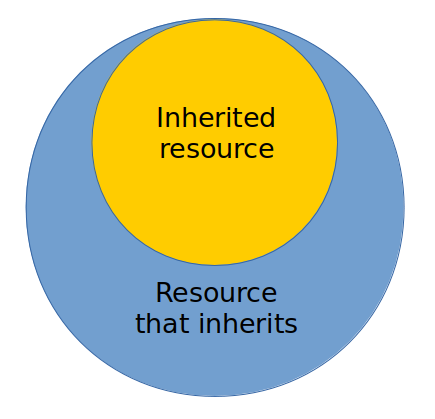
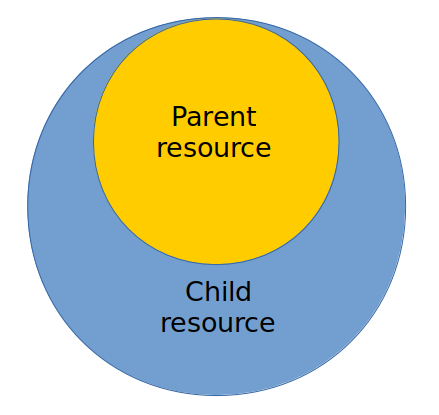
Start Reflectors

diff --git a/doc/version2.eng/concept/Structure.md b/doc/version2.eng/concept/Structure.md
@@ -2,11 +2,11 @@
 
 ### Section <code>will-file</code>   
 
-Higher structural element of <code>will-file</code> which consists of resources of single type or fields, which describe the module.
+Higher structural element of <code>will-file</code> which consists of resources of single type or fields, which describe the module.  
 
-There are 6 optional sections for building the module: `about`, `path`, `submodule`, `step`, `reflector`, `build` and one section generated by the `willbe` utility when exporting the module. It is section `exported`.
+There are 6 optional sections for building the module: `about`, `path`, `submodule`, `step`, `reflector`, `build` and one section generated by the `willbe` utility when exporting the module. It is section `exported`.  
 
-The complete `will-file` structure with sections:
+The complete `will-file` structure with sections:  
 
 ```
 will-file
@@ -20,7 +20,7 @@ will-file
 
 ```
 
-The order and the number of sections in `will-file` is determined by its purpose. For example, the following structure is possible: 
+The order and the number of sections in `will-file` is determined by its purpose. For example, the following structure is possible:   
 
 ```
 will-file
@@ -31,7 +31,7 @@ will-file
 
 ```
 
-### Assigning of the `will-file` sections
+### Assigning of the `will-file` sections  
 
 <details>
   <summary><a href="./concept/SectionAbout.md">Section <code>about</code></a></summary>
@@ -75,8 +75,8 @@ The resources appearance of individual sections is different. In the figure the 
 
 ![resource.png](./Images/resource.png)  
 
-### Type of resource
+### Type of resource  
 
 Functionality associated with group of resources restricted by its purpose. Examples of types of resources: path, submodule, step, build. Each type of resources has its own purpose and is treated by the utility differently.  
 
-The `path` section has a `path` type of resources. The `path` resource points to the file (directory) path and it is used in routing for other resources. The `step` section has the resources of the "function of [module](Module.mdModule) construction" type (short name is "step") - the resource specifies the procedure for construction and the conditions for its implementation. Section `reflector` has a "reflector" type resource. Reflector specifies execution of operations with files. The `submodule` section connects the "submodule" type resources. The submodule is the auxiliary parts of the module, it's the individual modules. The` build `section places the resources of the "build assembly" type (short name is "build"). Build specifies module construction scenario and the sequence of its execution. The` exported` section includes descriptive fields and links to the resources of other sections. Section `about` does not have resources but it contains descriptive information about the module.
+The `path` section has a `path` type of resources. The `path` resource points to the file (directory) path and it is used in routing for other resources. The `step` section has the resources of the "function of [module](Module.mdModule) construction" type (short name is "step") - the resource specifies the procedure for construction and the conditions for its implementation. Section `reflector` has a "reflector" type resource. Reflector specifies execution of operations with files. The `submodule` section connects the "submodule" type resources. The submodule is the auxiliary parts of the module, it's the individual modules. The` build `section places the resources of the "build assembly" type (short name is "build"). Build specifies module construction scenario and the sequence of its execution. The` exported` section includes descriptive fields and links to the resources of other sections. Section `about` does not have resources but it contains descriptive information about the module.  

diff --git a/doc/version2.eng/concept/Reflectors.md b/doc/version2.eng/concept/Reflectors.md
@@ -2,28 +2,28 @@
 
 <code>Reflector</code> section resource which defines the direction and criteria for performing operations over a group of files.    
 
-#### Поля ресурсів секції `reflector`     
+### Resource fields of `reflector` section     
 
-| Поле           | Опис                                                       |
-|----------------|------------------------------------------------------------|
-| description    | опис рефлектора                                            |
-| recursive      | опція, яка визначає рівень зчитування структури директорії |
-| filePath       | вказуються шляхи до директорій модуля, управління директоріями  |
-| src            | вказуються шляхи до директорій та умови вибору файлів      |
-| dst            | директорія в яку будут поміщено файли                      |
-| criterion      | умова використання ресурса (див. критеріон)                |
-| inherit        | наслідування значень полів іншого ресурса                  |
+| Field          | Description                                                                       |
+|----------------|-----------------------------------------------------------------------------------|
+| description    | reflector description                                                             |
+| recursive      | option that determines the level of reading the file structure of the directory   |
+| filePath       | specifies the paths to the module directories, file operations and the management of the directories  |
+| src            | specifies the paths to the source directories and file selection conditions       |
+| dst            | the destination directory in which the files will be placed                       |
+| criterion      | condition for the resource using (see [criterion](Criterions.md))                 |
+| inherit        | reusing (inheritance) of another resource fields                                  |
 
-Поля `src`, `dst` мають ресурси які структурно розділені на шляхи і [файлові фільтри](ReflectorFileFilter.md).  
+The `src` and ` dst` fields have resources structurally divided into paths and [file filters](ReflectorFileFilter.md).  
 
-### Опція `recursive`  
-Файлові фільтри мають певний діапазон видимості, який визначається полем-опцією `recursive` тому, при їх використанні зверніть увагу на її значення.
-Поле `recursive` приймає три значення:  
-"0" - зчитується файл (директорія) вказана в шляху;  
+### `recursive` option  
+File filters have a certain range of visibility. Visibility is determined by the field `recursive` of a reflector. So, if you use them pay attention to its value.  
+The `recursive` field accepts three values:  
+'0' - reads the file (directory) specified in the path;  
 
 ![recursive.0.png](./Images/recursive.0.png)
 
-"1" - зчитується файли (директорії), що поміщені за вказаним шляхом (вміст директорій не зчитується);  
+'1' - reads the files (directories) that are placed in the specified path (the contents of next level directories are not read);  
 
 ![recursive.1.png](./Images/recursive.1.png)
 

diff --git a/doc/version2.eng/concept/Paths.md b/doc/version2.eng/concept/Paths.md
@@ -2,19 +2,16 @@
 
 <code>Path</code> section resource which points to the placement of module elements and used in routing for other resources.  
 
-The utility has three built-in paths. This is `in`,` out` and `temp` paths. The `in` path is a reference point for the relative paths of the module. The utility reads the other path relative to `in` directory. `out` path is the directory for the exported module files. `temp` is placed temporary module files. If `in` path is not specified then` willbe` start routing from the root directory of `will-file`.
+The utility has three built-in paths. This is `in`,` out` and `temp` paths. The `in` path is a reference point for the relative paths of the module. The utility reads the other path relative to `in` directory. `out` path is the directory for the exported module files. `temp` is placed temporary module files. If `in` path is not specified then` willbe` start routing from the root directory of `will-file`.  
 
 ### Resource fields of `path` section   
 
-| | criterion |  |
-| | inherit | imitation of the values of the fields of another resource
-
-| Field          | Description                                 |
-|----------------|---------------------------------------------|
-| path           | path to the directory (absolute, relative)  |
-| description    | description of the directory                |
+| Field          | Description                                                       |
+|----------------|-------------------------------------------------------------------|
+| path           | path to the directory (absolute, relative)                        |
+| description    | description of the directory                                      |
 | criterion      | condition for the resource using (see [criterion](Criterions.md)) |
-| inherit        | inheritance of another resource fields      |
+| inherit        | reusing (inheritance) of another resource fields                  |
 
 
 ## Section <code>path</code>
